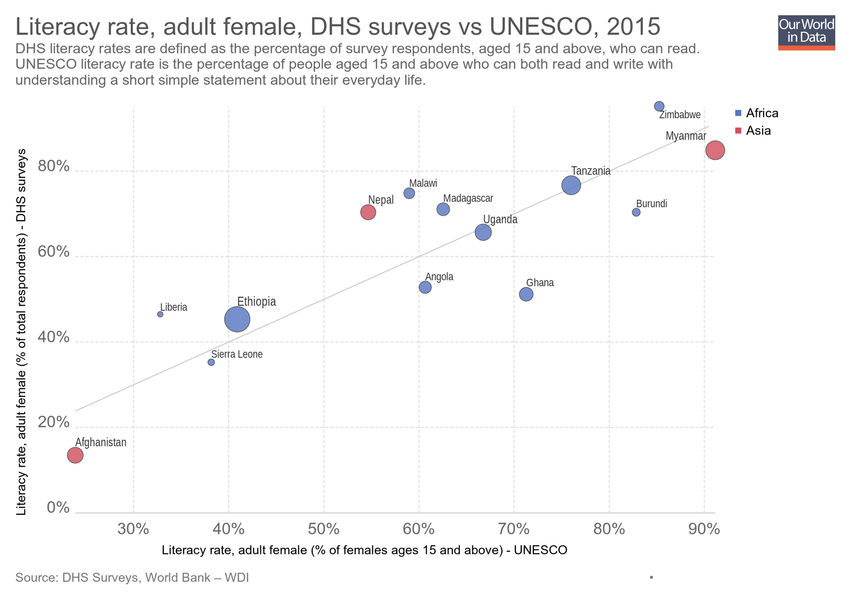
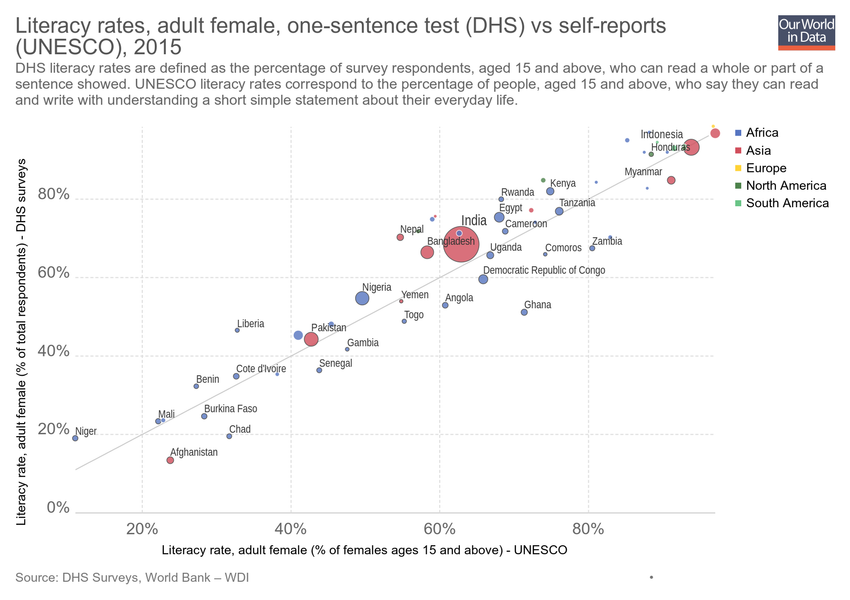
Updating chart literacy-rate-adult-female-dhs-surveys-vs-unesco

diff --git a/grapher/literacy-rate-adult-female-dhs-surveys-vs-unesco.html b/grapher/literacy-rate-adult-female-dhs-surveys-vs-unesco.html
@@ -1,4 +1,4 @@
-<!doctype html><html><head><meta name="viewport" content="width=device-width, initial-scale=1" /><title>Literacy rate, adult female, DHS surveys vs UNESCO - Our World in Data</title><meta name="description" content="DHS literacy rates are defined as the percentage of survey respondents, aged 15 and above, who can read. UNESCO literacy rate is the percentage of people aged 15 and above who can both read and write with understanding a short simple statement about their everyday life. " /><link rel="canonical" href="https://ourworldindata.org/grapher/literacy-rate-adult-female-dhs-surveys-vs-unesco" /><meta property="fb:app_id" content="1149943818390250" /><meta property="og:url" content="https://ourworldindata.org/grapher/literacy-rate-adult-female-dhs-surveys-vs-unesco" /><meta property="og:title" content="Literacy rate, adult female, DHS surveys vs UNESCO" /><meta property="og:description" content="DHS literacy rates are defined as the percentage of survey respondents, aged 15 and above, who can read. UNESCO literacy rate is the percentage of people aged 15 and above who can both read and write with understanding a short simple statement about their everyday life. " /><meta property="og:image" content="https://ourworldindata.org/grapher/exports/literacy-rate-adult-female-dhs-surveys-vs-unesco.png?v=3" /><meta property="og:image:width" content="850" /><meta property="og:image:height" content="600" /><meta property="og:site_name" content="Our World in Data" /><meta name="twitter:card" content="summary_large_image" /><meta name="twitter:site" content="@OurWorldInData" /><meta name="twitter:creator" content="@OurWorldInData" /><meta name="twitter:title" content="Literacy rate, adult female, DHS surveys vs UNESCO" /><meta name="twitter:description" content="DHS literacy rates are defined as the percentage of survey respondents, aged 15 and above, who can read. UNESCO literacy rate is the percentage of people aged 15 and above who can both read and write with understanding a short simple statement about their everyday life. " /><meta name="twitter:image" content="https://ourworldindata.org/grapher/exports/literacy-rate-adult-female-dhs-surveys-vs-unesco.png?v=3" /><style>
+<!doctype html><html><head><meta name="viewport" content="width=device-width, initial-scale=1" /><title>Literacy rates, adult female, one-sentence test (DHS) vs self-reports (UNESCO) - Our World in Data</title><meta name="description" content="DHS literacy rates are defined as the percentage of survey respondents, aged 15 and above, who can read a whole or part of a sentence showed. UNESCO literacy rates correspond to the percentage of people, aged 15 and above, who say they can read and write with understanding a short simple statement about their everyday life. " /><link rel="canonical" href="https://ourworldindata.org/grapher/literacy-rate-adult-female-dhs-surveys-vs-unesco" /><meta property="fb:app_id" content="1149943818390250" /><meta property="og:url" content="https://ourworldindata.org/grapher/literacy-rate-adult-female-dhs-surveys-vs-unesco" /><meta property="og:title" content="Literacy rates, adult female, one-sentence test (DHS) vs self-reports (UNESCO)" /><meta property="og:description" content="DHS literacy rates are defined as the percentage of survey respondents, aged 15 and above, who can read a whole or part of a sentence showed. UNESCO literacy rates correspond to the percentage of people, aged 15 and above, who say they can read and write with understanding a short simple statement about their everyday life. " /><meta property="og:image" content="https://ourworldindata.org/grapher/exports/literacy-rate-adult-female-dhs-surveys-vs-unesco.png?v=5" /><meta property="og:image:width" content="850" /><meta property="og:image:height" content="600" /><meta property="og:site_name" content="Our World in Data" /><meta name="twitter:card" content="summary_large_image" /><meta name="twitter:site" content="@OurWorldInData" /><meta name="twitter:creator" content="@OurWorldInData" /><meta name="twitter:title" content="Literacy rates, adult female, one-sentence test (DHS) vs self-reports (UNESCO)" /><meta name="twitter:description" content="DHS literacy rates are defined as the percentage of survey respondents, aged 15 and above, who can read a whole or part of a sentence showed. UNESCO literacy rates correspond to the percentage of people, aged 15 and above, who say they can read and write with understanding a short simple statement about their everyday life. " /><meta name="twitter:image" content="https://ourworldindata.org/grapher/exports/literacy-rate-adult-female-dhs-surveys-vs-unesco.png?v=5" /><style>
         html, body {
             height: 100%;
             margin: 0;
@@ -20,8 +20,8 @@
         }
     </style><noscript><style>
                     figure { display: none !important; }
-                </style></noscript><link rel="stylesheet" href="https://ourworldindata.org/grapher/assets/commons.bundle.dcbbe53805c487d5e57617b10ac73a8a.css" /><link rel="preload" href="/grapher/data/variables/97494+3194+72+123.json?v=3" as="fetch" crossorigin /></head><body class="singleChart"><figure data-grapher-src="/grapher/literacy-rate-adult-female-dhs-surveys-vs-unesco"></figure><noscript id="fallback"><img src="/grapher/exports/literacy-rate-adult-female-dhs-surveys-vs-unesco.svg" /><p>Interactive visualization requires JavaScript</p></noscript><script src="https://cdn.polyfill.io/v2/polyfill.min.js?features=es6,fetch"></script><script src="https://ourworldindata.org/grapher/assets/commons.bundle.da523acc49807a06a11f.js"></script><script src="https://ourworldindata.org/grapher/assets/charts.bundle.da523acc49807a06a11f.js"></script><script>
-        var jsonConfig = {"id":2706,"map":{"projection":"World","colorSchemeLabels":[],"colorSchemeValues":[],"customNumericColors":[],"customCategoryColors":{},"customCategoryLabels":{},"customHiddenCategories":{}},"tab":"chart","slug":"literacy-rate-adult-female-dhs-surveys-vs-unesco","type":"ScatterPlot","title":"Literacy rate, adult female, DHS surveys vs UNESCO","xAxis":{"scaleType":"linear"},"yAxis":{"min":0,"scaleType":"linear"},"maxTime":2015,"minTime":2015,"version":3,"subtitle":"DHS literacy rates are defined as the percentage of survey respondents, aged 15 and above, who can read. UNESCO literacy rate is the percentage of people aged 15 and above who can both read and write with understanding a short simple statement about their everyday life. ","hasMapTab":false,"stackMode":"absolute","dimensions":[{"display":{"name":"Literacy rate, adult female (% of total respondents) - DHS surveys"},"property":"y","variableId":97494},{"display":{"name":"Literacy rate, adult female (% of females ages 15 and above) - UNESCO"},"property":"x","variableId":3194},{"display":{},"property":"size","variableId":72},{"display":{},"property":"color","variableId":123}],"hasChartTab":true,"isPublished":true,"selectedData":[],"comparisonLine":{}};
+                </style></noscript><link rel="stylesheet" href="https://ourworldindata.org/grapher/assets/commons.bundle.dcbbe53805c487d5e57617b10ac73a8a.css" /><link rel="preload" href="/grapher/data/variables/97494+3194+72+123.json?v=5" as="fetch" crossorigin /></head><body class="singleChart"><figure data-grapher-src="/grapher/literacy-rate-adult-female-dhs-surveys-vs-unesco"></figure><noscript id="fallback"><img src="/grapher/exports/literacy-rate-adult-female-dhs-surveys-vs-unesco.svg" /><p>Interactive visualization requires JavaScript</p></noscript><script src="https://cdn.polyfill.io/v2/polyfill.min.js?features=es6,fetch"></script><script src="https://ourworldindata.org/grapher/assets/commons.bundle.da523acc49807a06a11f.js"></script><script src="https://ourworldindata.org/grapher/assets/charts.bundle.da523acc49807a06a11f.js"></script><script>
+        var jsonConfig = {"id":2706,"map":{"projection":"World","colorSchemeLabels":[],"colorSchemeValues":[],"customNumericColors":[],"customCategoryColors":{},"customCategoryLabels":{},"customHiddenCategories":{}},"tab":"chart","slug":"literacy-rate-adult-female-dhs-surveys-vs-unesco","type":"ScatterPlot","title":"Literacy rates, adult female, one-sentence test (DHS) vs self-reports (UNESCO)","xAxis":{"scaleType":"linear"},"yAxis":{"min":0,"scaleType":"linear"},"maxTime":2015,"minTime":2015,"version":5,"subtitle":"DHS literacy rates are defined as the percentage of survey respondents, aged 15 and above, who can read a whole or part of a sentence showed. UNESCO literacy rates correspond to the percentage of people, aged 15 and above, who say they can read and write with understanding a short simple statement about their everyday life. ","hasMapTab":false,"stackMode":"absolute","dimensions":[{"display":{"name":"Literacy rate, adult female (% of total respondents) - DHS surveys","tolerance":10},"property":"y","variableId":97494},{"display":{"name":"Literacy rate, adult female (% of females ages 15 and above) - UNESCO","tolerance":10},"property":"x","variableId":3194},{"display":{},"property":"size","variableId":72},{"display":{},"property":"color","variableId":123}],"hasChartTab":true,"isPublished":true,"selectedData":[],"comparisonLine":{}};
         var figure = document.getElementsByTagName("figure")[0];
         try {
             window.App = {};
